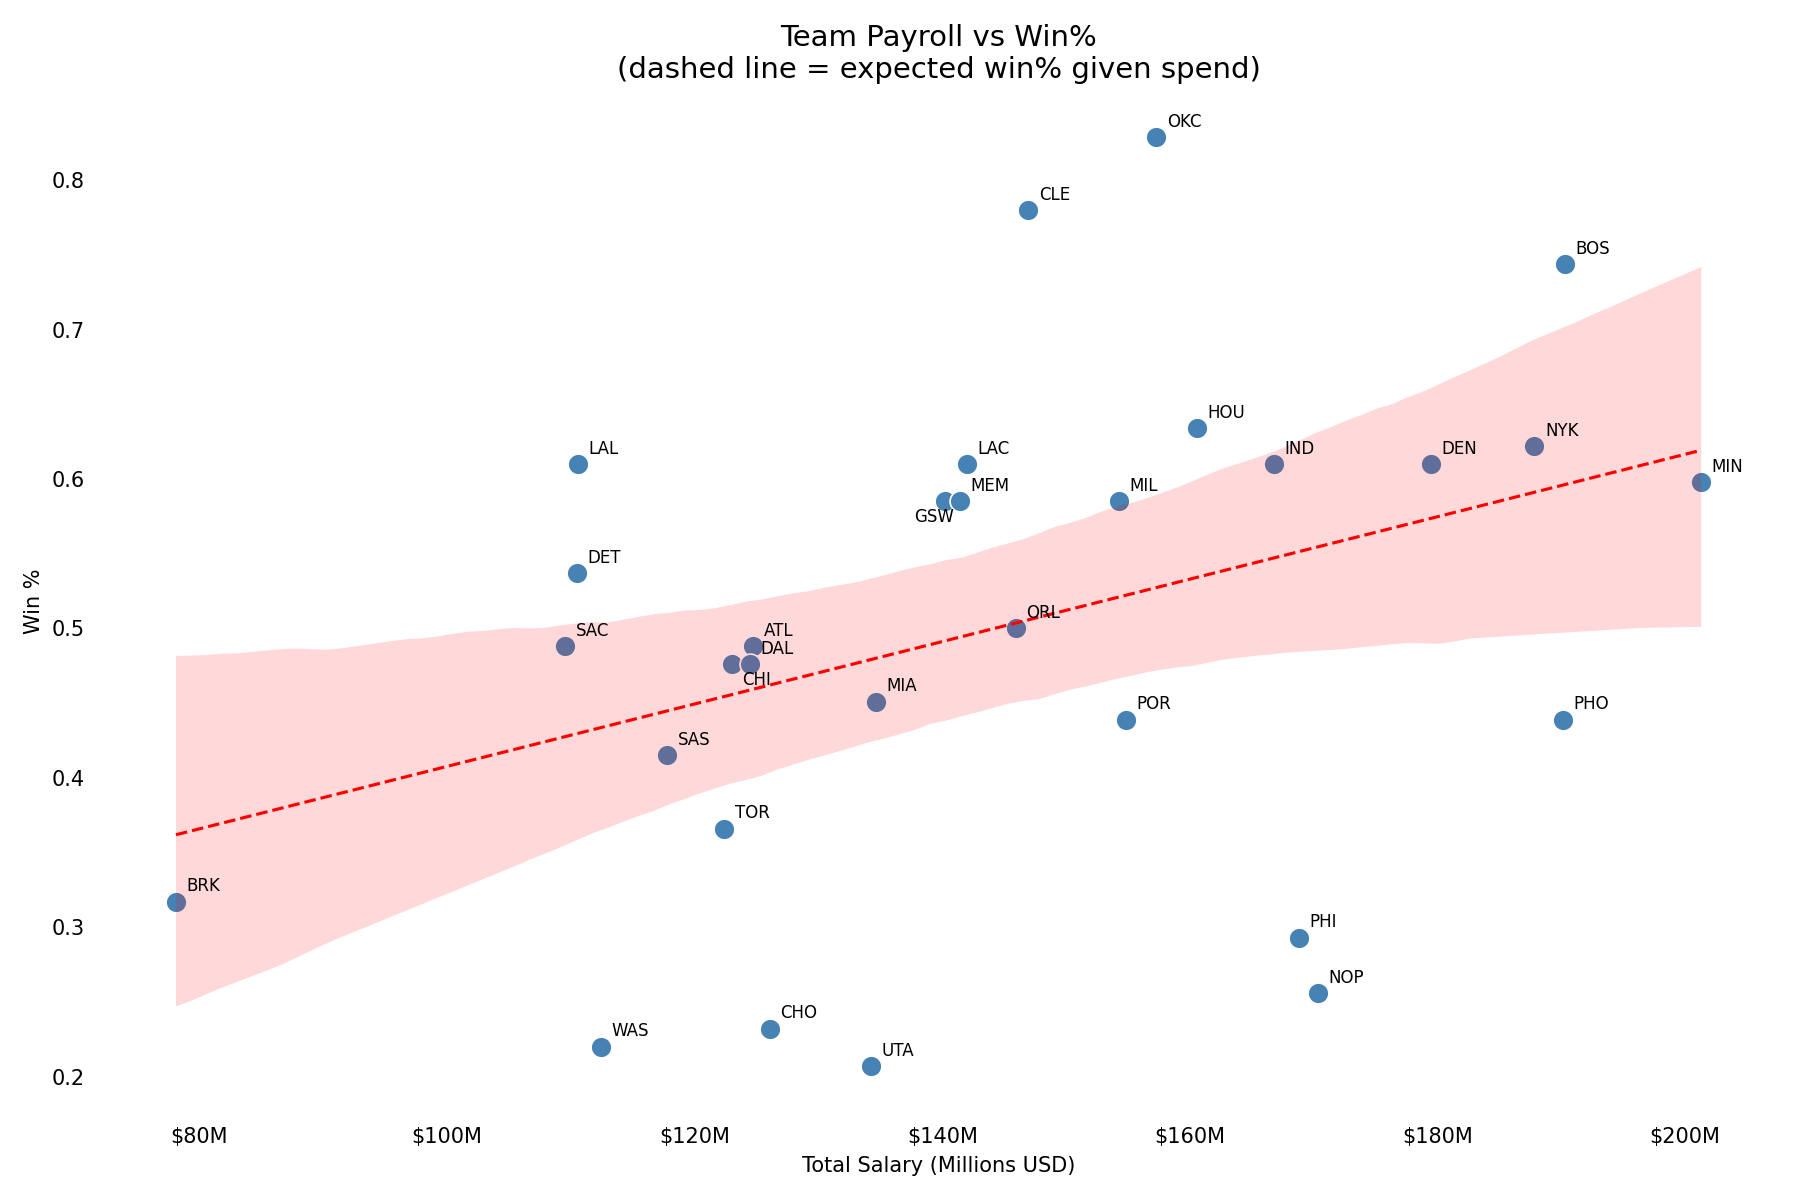
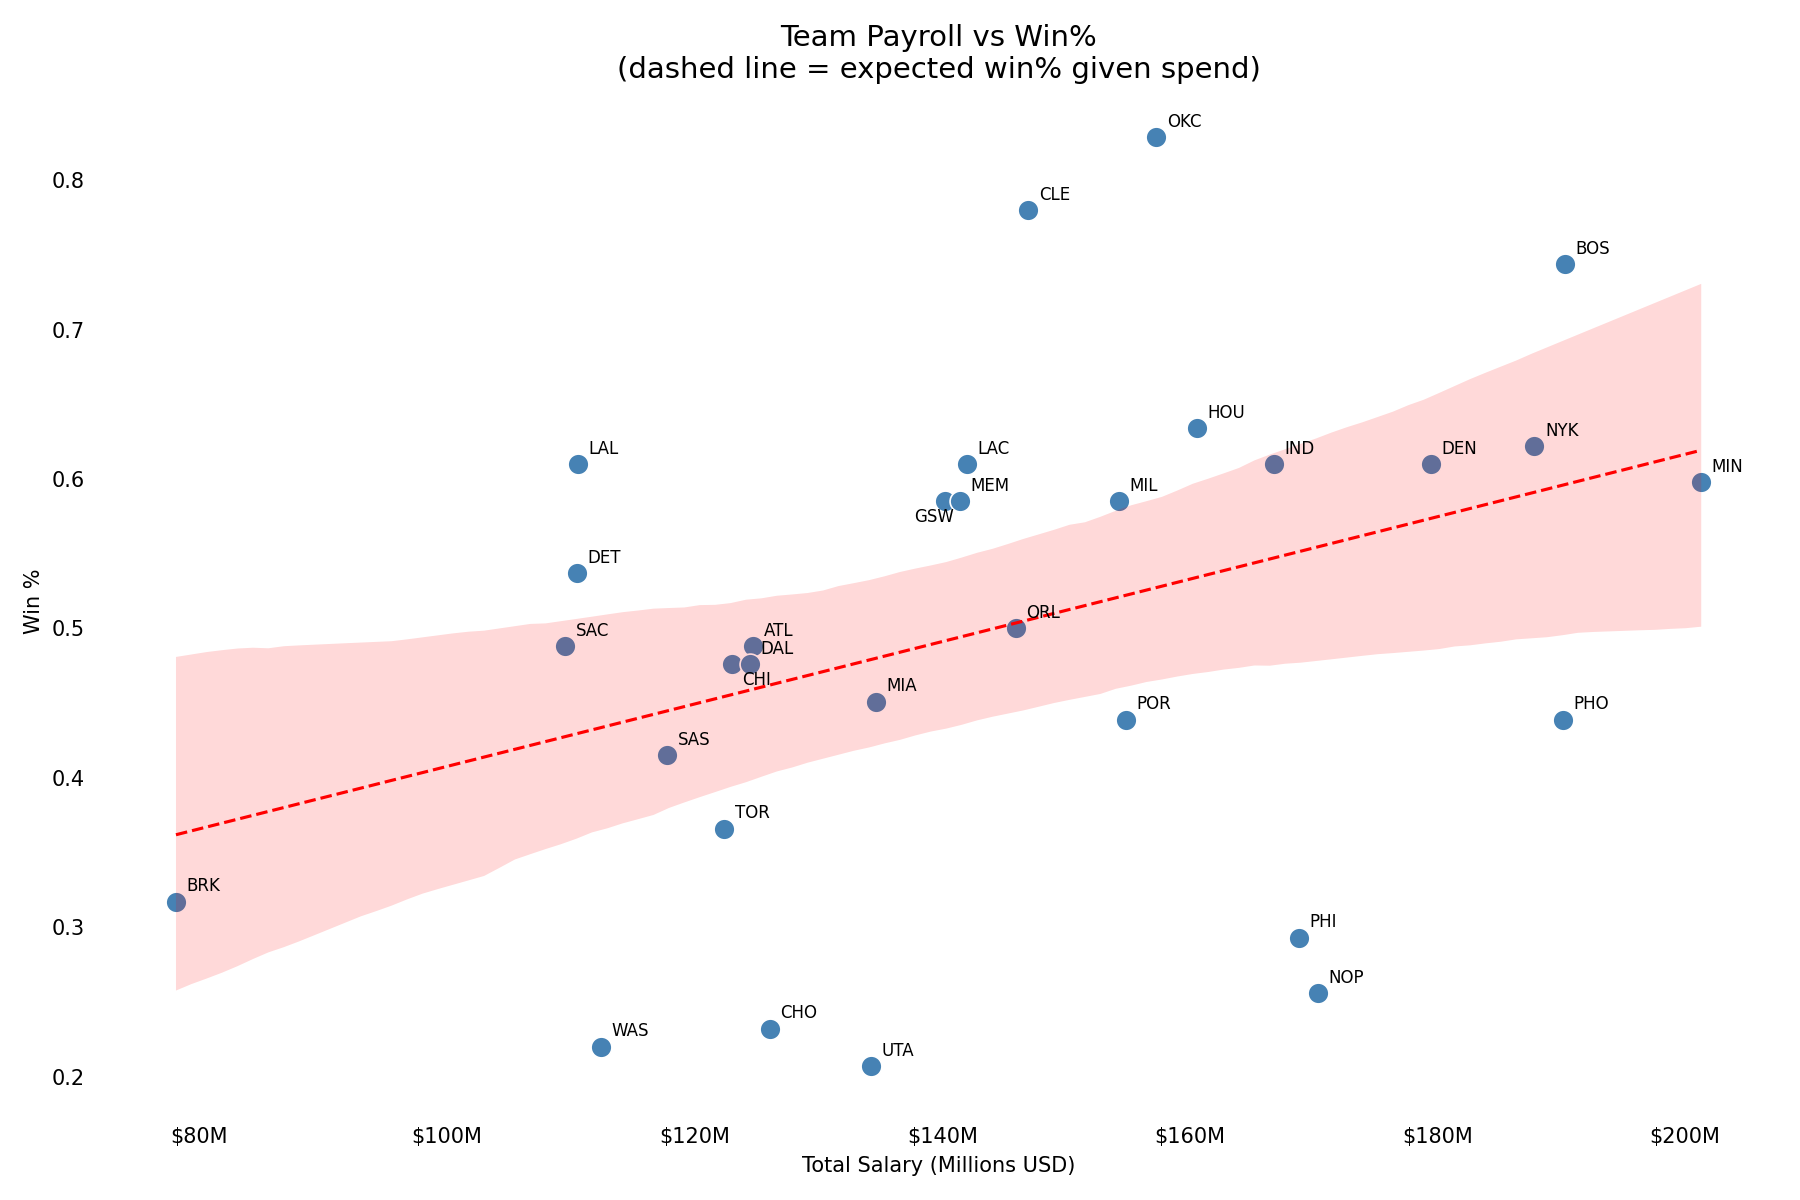
added CBA min filter and updated figures

diff --git a/src/analyze_visualize.py b/src/analyze_visualize.py
@@ -7,7 +7,7 @@ from sklearn.linear_model import LinearRegression
 from sklearn.metrics import r2_score
 import numpy as np
 
-from utils.constants import POSITION_COLORS, POSITION
+from utils.constants import POSITION_COLORS, POSITION, TIER_COLORS
 from utils.helpers import millions, build_analysis_df, build_team_df
 from pathlib import Path
 
@@ -181,6 +181,11 @@ def plot_dumbbell_salary_diff(df_temp):
 
 
 def plot_dumbbell_salary_pct_diff(df_temp):
+    # df_temp = df_temp[df_temp["salary"] >= 2_000_000] # 
+    df_temp = df_temp[df_temp["salary"] >= df_temp["cba_minimum"] * 1.1]
+    '''Players on CBA-mandated minimum contracts were excluded from the percentage 
+    gap analysis because their salaries are not performance-based.'''
+    
     top15 = df_temp.nlargest(15, "salary_pct_diff").sort_values("salary_pct_diff", ascending=True)
 
     actual = top15["salary"] / 1_000_000
@@ -201,7 +206,8 @@ def plot_dumbbell_salary_pct_diff(df_temp):
     ax.scatter(expected, y_pos, color="#FF9800", s=60, label="Expected Salary", zorder=3)
 
     # labels
-    offset = 0.15
+    x_range = expected.max() - actual.min()
+    offset = x_range * 0.015
     for i, (a, e) in enumerate(zip(actual, expected)):
         ax.text(a - offset, i, f"{a:.1f}", va="center", ha="right", fontsize=9)
         ax.text(e + offset, i, f"{e:.1f}", va="center", ha="left", fontsize=9)
@@ -222,7 +228,7 @@ def plot_dumbbell_salary_pct_diff(df_temp):
     ax.tick_params(left=False, bottom=False)
 
     #plt.tight_layout()
-    ax.set_xlim(left=-0.5)
+    # ax.set_xlim(left=-0.5)
     plt.tight_layout(rect=[0, 0, 0.85, 1])
     plt.savefig(RESULTS_DIR / "dumbbell_salary_diff-pct_comparison.png", dpi=150, bbox_inches="tight")
     # plt.show()